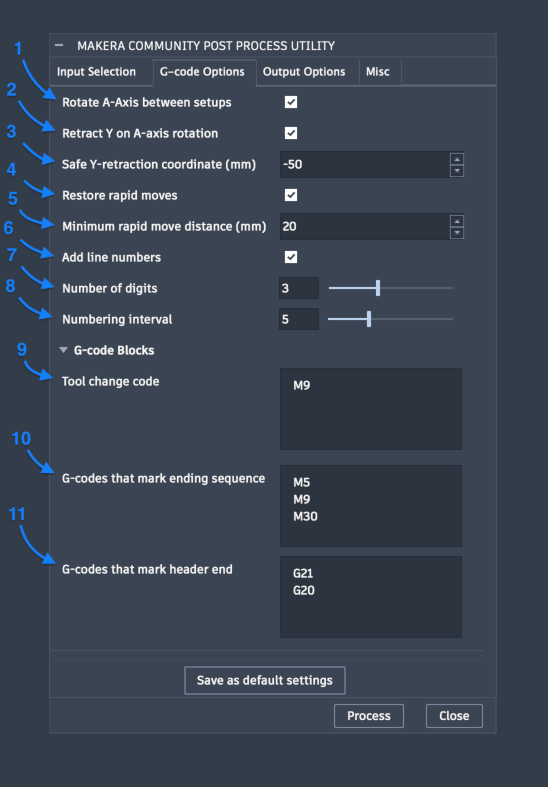
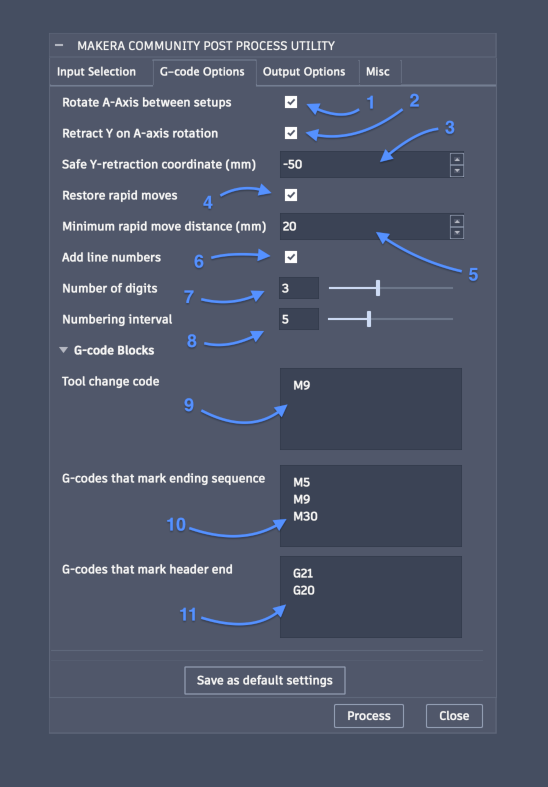
Updated the documentation images and added a note that setups that is suppressed will not show up in the list.

diff --git a/README.md b/README.md
@@ -73,7 +73,7 @@ These settings will be saved in the document itself, so if you're sharing your d
 
 #### Input Selection Tab
 
-The first step you need to do is to select your NC Program that contains the information for the post processor to work. In the drop down `NC Program` (2) you will find the NC Programs that is in the current document that doesn't have an error. Select the one that you want to use, normally you might just have one after the first step above.
+The first step you need to do is to select your NC Program that contains the information for the post processor to work. In the drop down `NC Program` (2) you will find the NC Programs that is in the current document that isn't suppressed and doesn't have an error. Select the one that you want to use, normally you might just have one after the first step above.
 
 As a validation you will see the `Machine` selected (3) and the `Post Processor` (4) that will be used when running the plugin later. 
 
